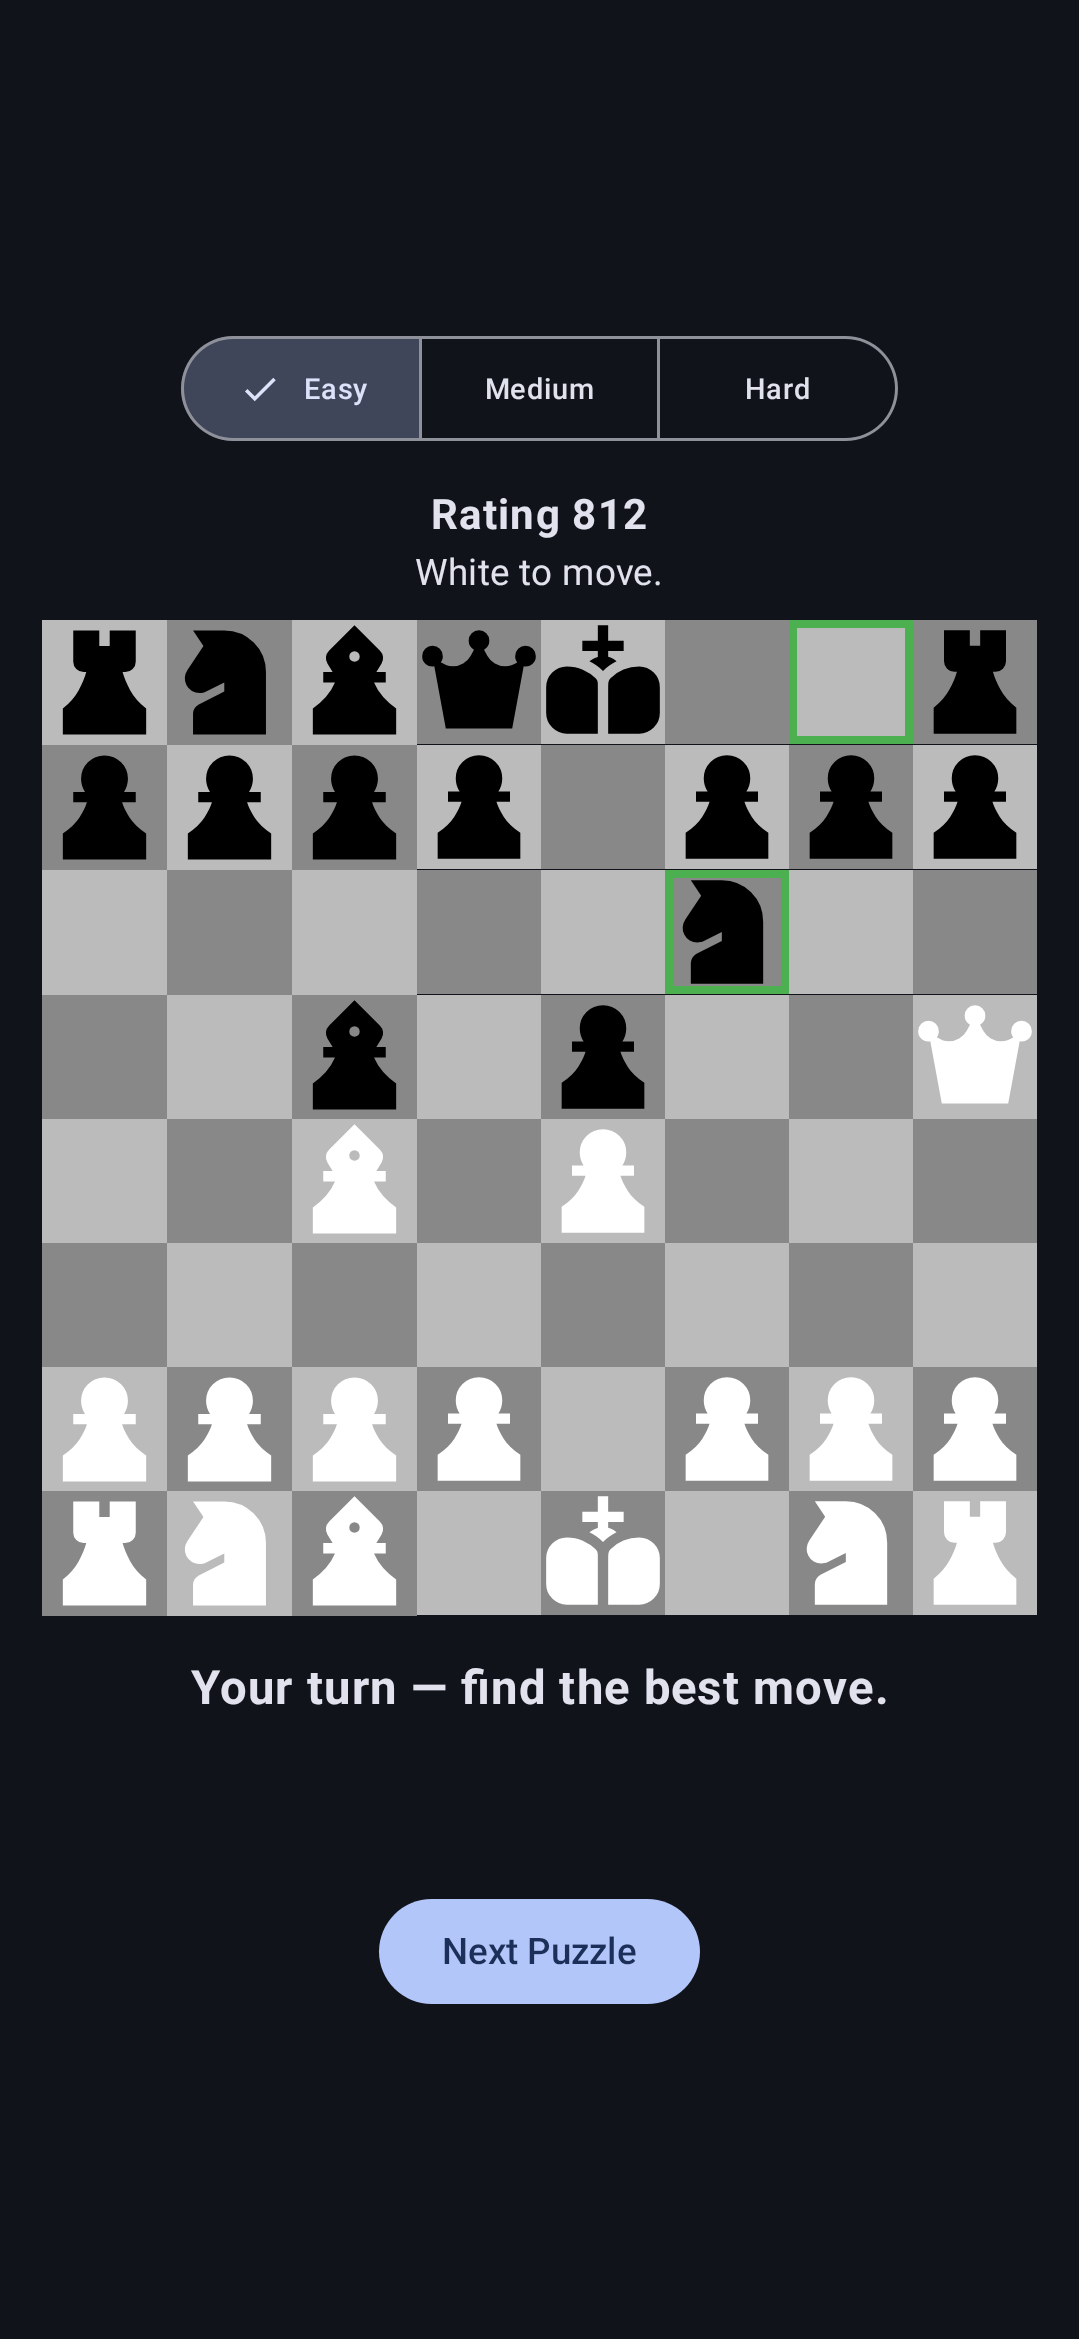
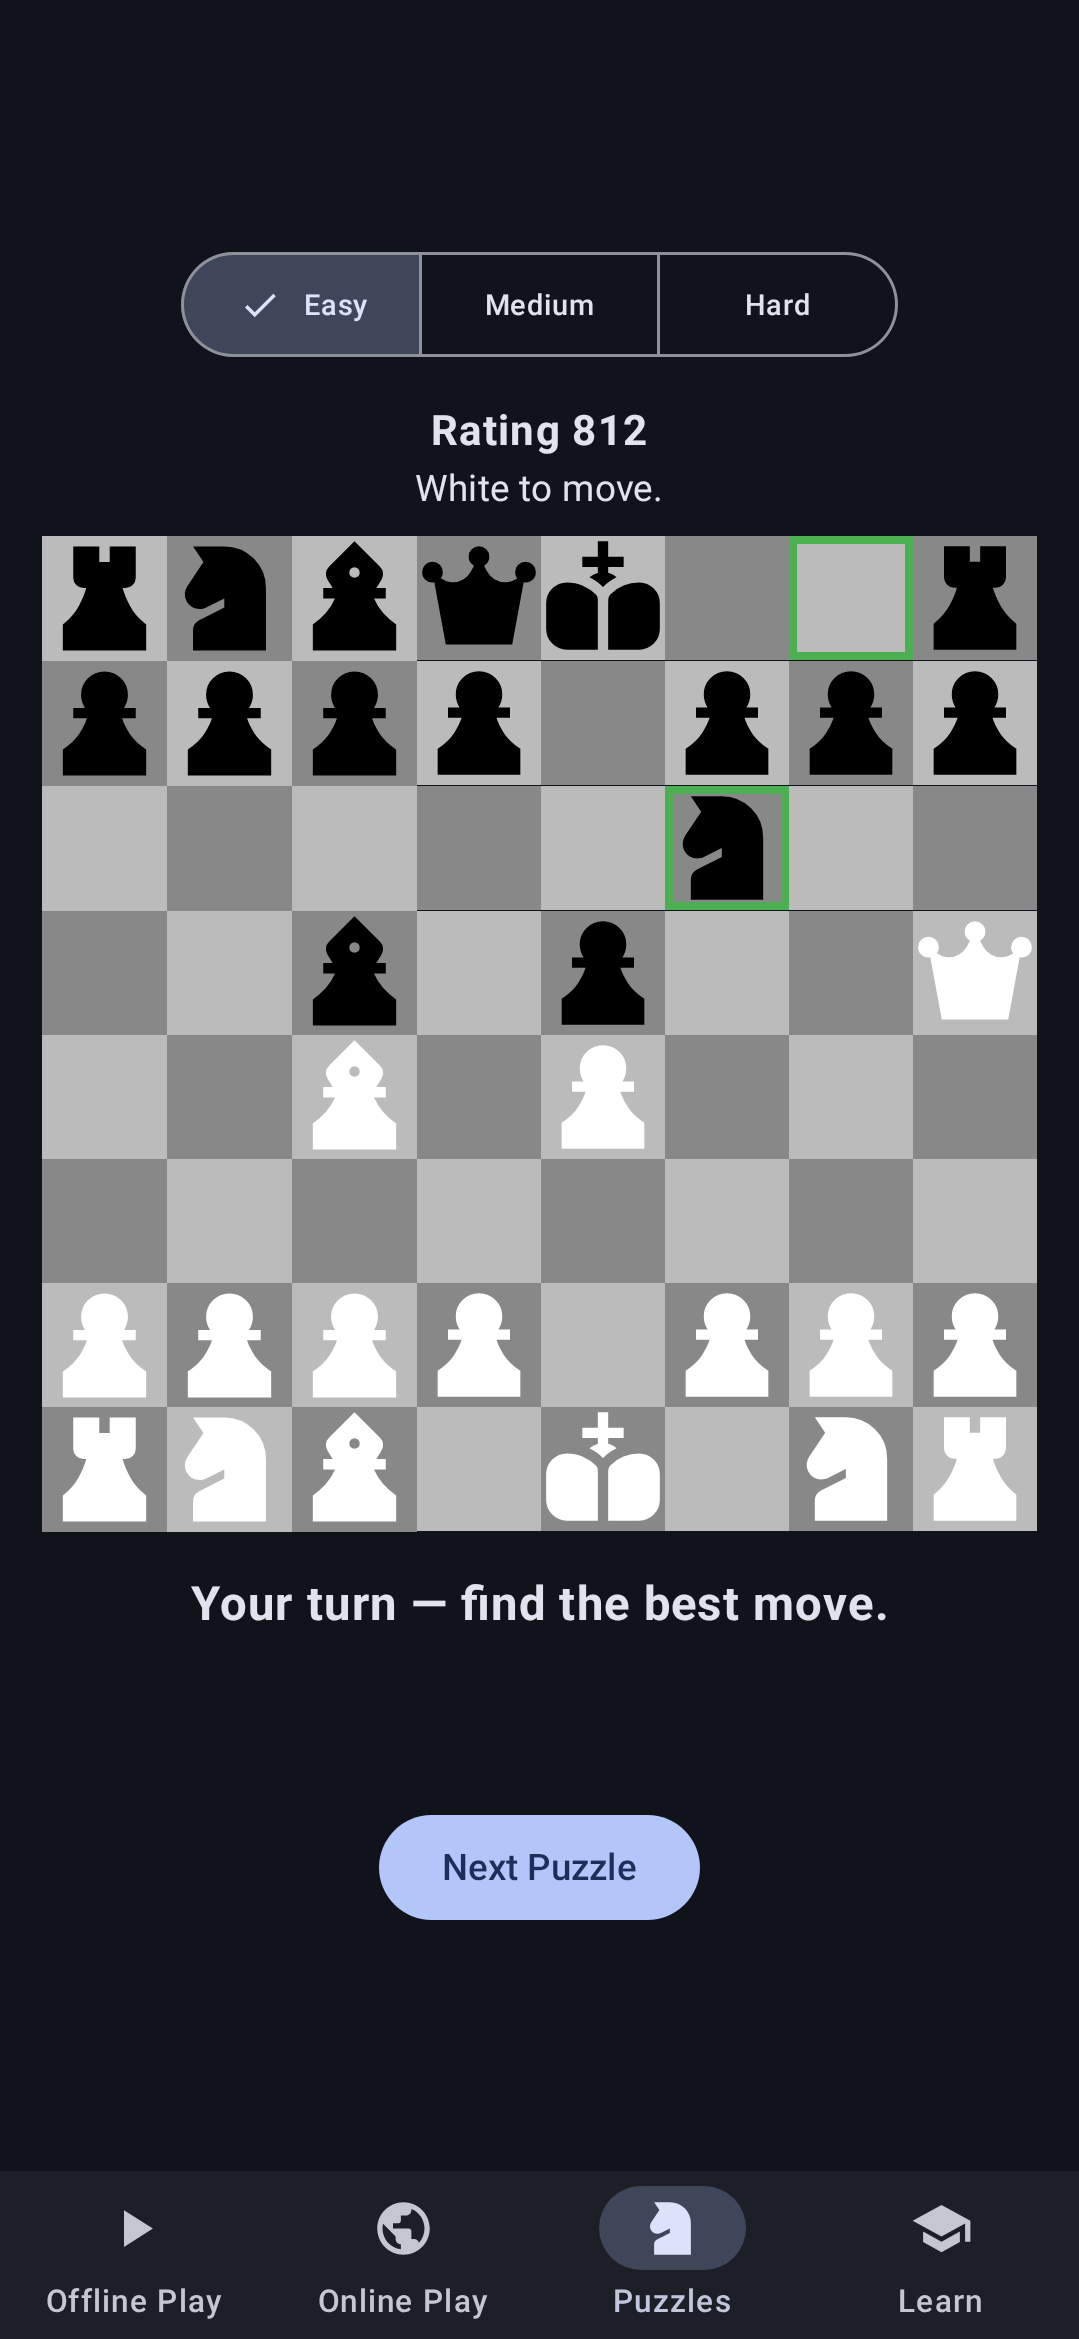
games-chess: preview tab chrome in screenshots

diff --git a/games/chess/src/screenshotTest/kotlin/com/vayunmathur/games/chess/MetadataPreviews.kt b/games/chess/src/screenshotTest/kotlin/com/vayunmathur/games/chess/MetadataPreviews.kt
@@ -1,7 +1,14 @@
 package com.vayunmathur.games.chess
 
+import androidx.compose.foundation.layout.Box
+import androidx.compose.foundation.layout.fillMaxSize
 import androidx.compose.runtime.Composable
+import androidx.compose.runtime.CompositionLocalProvider
+import androidx.compose.ui.Modifier
+import androidx.compose.ui.res.painterResource
 import androidx.compose.ui.tooling.preview.Preview
+import androidx.navigationevent.compose.LocalNavigationEventDispatcherOwner
+import androidx.navigationevent.compose.rememberNavigationEventDispatcherOwner
 import com.android.tools.screenshot.PreviewTest
 import com.vayunmathur.games.chess.data.Board
 import com.vayunmathur.games.chess.data.PieceColor
@@ -13,6 +20,14 @@ import com.vayunmathur.games.chess.util.PuzzleDifficulty
 import com.vayunmathur.games.chess.util.PuzzleStatus
 import com.vayunmathur.games.chess.util.PuzzleUiState
 import com.vayunmathur.library.ui.DynamicTheme
+import com.vayunmathur.library.ui.Icon
+import com.vayunmathur.library.ui.IconOnline
+import com.vayunmathur.library.ui.IconPlay
+import com.vayunmathur.library.util.BottomBarItem
+import com.vayunmathur.library.util.BottomNavBar
+import com.vayunmathur.library.util.MainNavigation
+import com.vayunmathur.library.util.SiblingPage
+import com.vayunmathur.library.util.rememberNavBackStack
 
 /** Phone-shaped, roughly 1080x2340 at xxhdpi — comfortably above the F-Droid minimum. */
 private const val PHONE = "spec:width=411dp,height=891dp,dpi=420"
@@ -45,7 +60,7 @@ class MetadataPreviews {
     @Preview(name = "1-game", device = PHONE, group = "phone", showSystemUi = true)
     @Composable
     fun Preview1Game() {
-        DynamicTheme(darkTheme = true) {
+        ChromePreview(Route.Game) {
             ChessGameScreen(
                 state = ChessUiState(
                     board = grecoAttack,
@@ -65,26 +80,14 @@ class MetadataPreviews {
     @Preview(name = "2-puzzles", device = PHONE, group = "phone", showSystemUi = true)
     @Composable
     fun Preview2Puzzles() {
-        DynamicTheme(darkTheme = true) {
-            PuzzleBoardScreen(
-                state = PuzzleUiState(
-                    board = scholarsMatePuzzle,
-                    playerColor = PieceColor.WHITE,
-                    rating = 812,
-                    solutionIndex = 1,
-                    status = PuzzleStatus.Solving,
-                    difficulty = PuzzleDifficulty.EASY,
-                ),
-                actions = PuzzleActions.Noop,
-            )
-        }
+        ChromePreview(Route.Puzzles)
     }
 
     @PreviewTest
     @Preview(name = "3-newgame", device = PHONE, group = "phone", showSystemUi = true)
     @Composable
     fun Preview3NewGame() {
-        DynamicTheme(darkTheme = true) {
+        ChromePreview(Route.Game) {
             // What the app opens on: the starting position behind the mode picker.
             ChessGameScreen(
                 state = ChessUiState(),
@@ -110,6 +113,62 @@ class MetadataPreviews {
                 onNewGame = {},
                 onOpenGameCenter = {},
             )
+        }
+    }
+
+    /**
+     * The app's real tab chrome around preview screen content: the same
+     * [BottomBarItem] list and [MainNavigation] host the activity declares, with a
+     * literal back stack for the shown tab. Online and Learn need their ViewModels,
+     * so their entries show an empty page (never visible — the stack stays on the
+     * previewed tab). [gameContent] varies per preview (mid-game vs new-game).
+     */
+    @Composable
+    private fun ChromePreview(route: Route, gameContent: @Composable () -> Unit = {}) {
+        DynamicTheme(darkTheme = true) {
+            CompositionLocalProvider(
+                LocalNavigationEventDispatcherOwner provides rememberNavigationEventDispatcherOwner(
+                    parent = null,
+                ),
+            ) {
+                val backStack = rememberNavBackStack(route)
+                val cur = backStack.last()
+                val pages: List<BottomBarItem<out Route>> = listOf(
+                    BottomBarItem("Offline Play", Route.Game) { IconPlay() },
+                    BottomBarItem("Online Play", Route.Online) { IconOnline() },
+                    BottomBarItem("Puzzles", Route.Puzzles) {
+                        Icon(painterResource(R.drawable.chess_knight_fill1_24px), null)
+                    },
+                    BottomBarItem("Learn", Route.Learn) {
+                        Icon(painterResource(R.drawable.school_24px), null)
+                    },
+                )
+                MainNavigation(
+                    backStack,
+                    bottomBar = {
+                        if (cur is Route.Game || cur is Route.Online || cur is Route.Puzzles || cur is Route.Learn) {
+                            BottomNavBar(backStack, pages, cur)
+                        }
+                    },
+                ) {
+                    entry<Route.Game>(metadata = SiblingPage()) { gameContent() }
+                    entry<Route.Puzzles>(metadata = SiblingPage()) {
+                        PuzzleBoardScreen(
+                            state = PuzzleUiState(
+                                board = scholarsMatePuzzle,
+                                playerColor = PieceColor.WHITE,
+                                rating = 812,
+                                solutionIndex = 1,
+                                status = PuzzleStatus.Solving,
+                                difficulty = PuzzleDifficulty.EASY,
+                            ),
+                            actions = PuzzleActions.Noop,
+                        )
+                    }
+                    entry<Route.Online>(metadata = SiblingPage()) { Box(Modifier.fillMaxSize()) }
+                    entry<Route.Learn>(metadata = SiblingPage()) { Box(Modifier.fillMaxSize()) }
+                }
+            }
         }
     }
 
